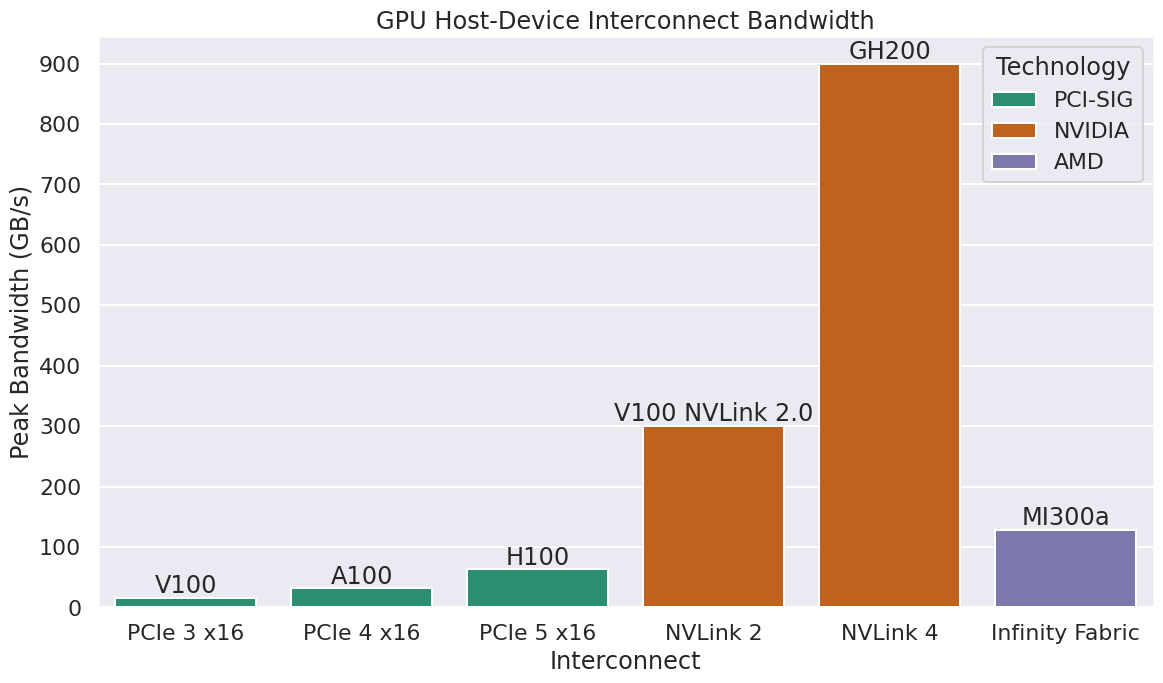
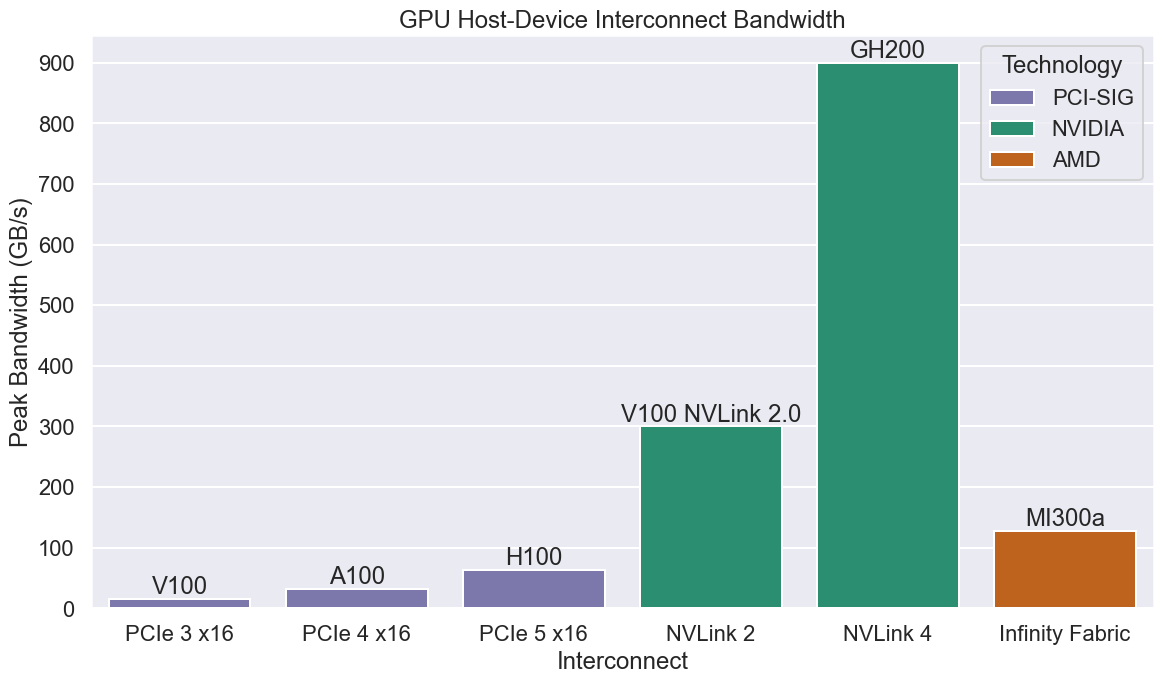
Manually adjusted palette order when hue is technology

diff --git a/plot.py b/plot.py
@@ -41,6 +41,8 @@ def plot(args):
     sns.set_style(config.SNS_STYLE)
     huecount = len(df[config.HUE].unique()) if config.HUE is not None else len(df) 
     palette = sns.color_palette(config.SNS_PALETTE, huecount)
+    if config.HUE == "technology" and len(palette) == 3:
+        palette = [palette[2], palette[0], palette[1]]
     sns.set_palette(palette)
 
     fig, ax = plt.subplots(constrained_layout=True)
@@ -103,7 +105,7 @@ def plot(args):
         if args.output.is_dir():
             raise Exception(f"{args.output} is a directory")
         elif args.output.is_file() and not args.force:
-            raise Exception(f"{args.is_file} is an existing file. Use -f/--force to overwrite")
+            raise Exception(f"{args.output} is an existing file. Use -f/--force to overwrite")
         # Save the figure to disk, creating the parent dir if needed.
         args.output.parent.mkdir(parents=True, exist_ok=True)
         fig.savefig(args.output, dpi=config.DPI, bbox_inches='tight')
